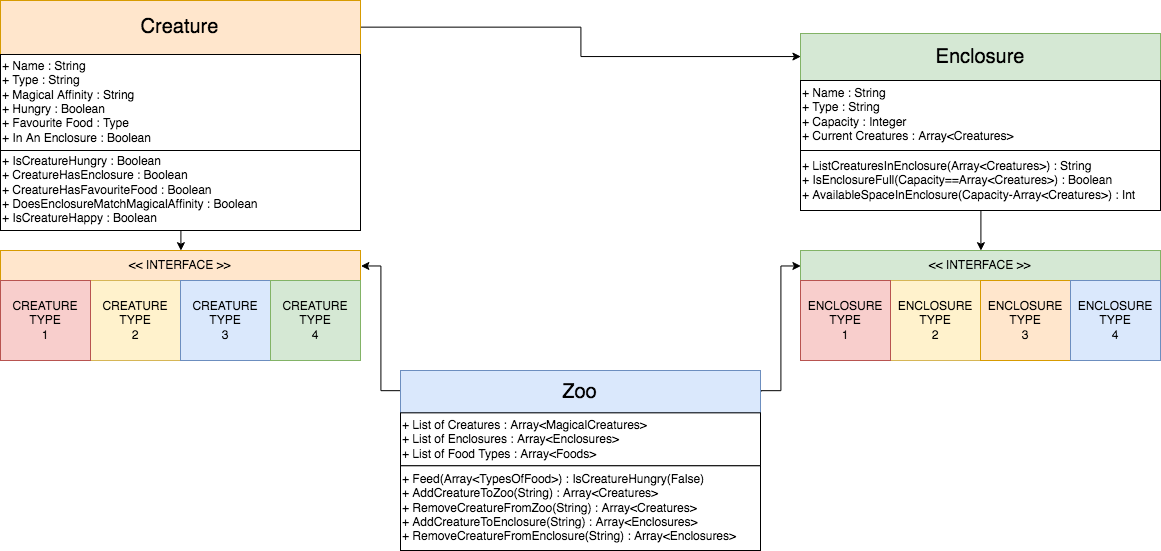
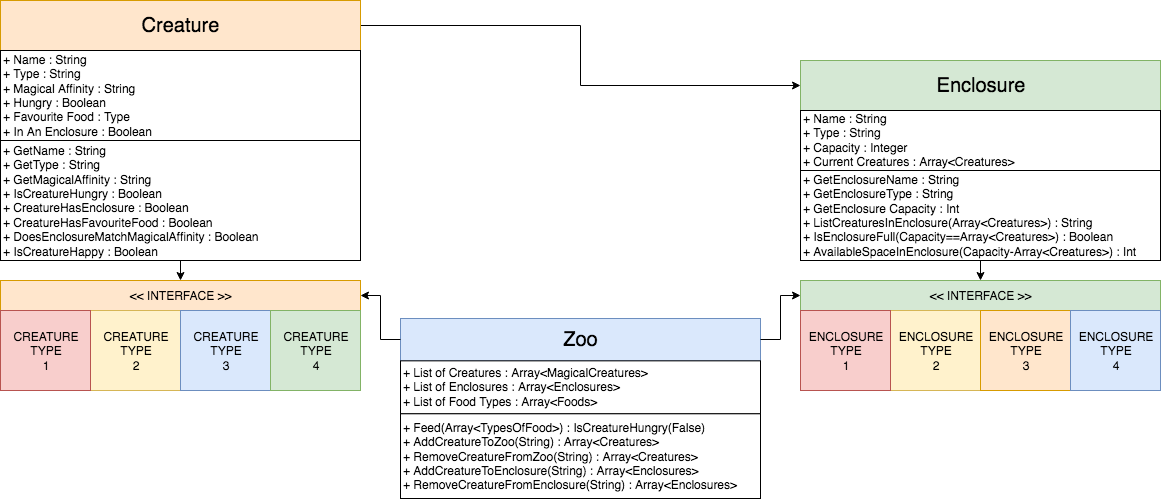
Updated Class Diagram

diff --git a/zoo/Zoo.java b/zoo/Zoo.java
@@ -2,4 +2,5 @@ package zoo;
 
 public class Zoo {
   private Creature creature;
+  private Enclosure enclosure;
 }
